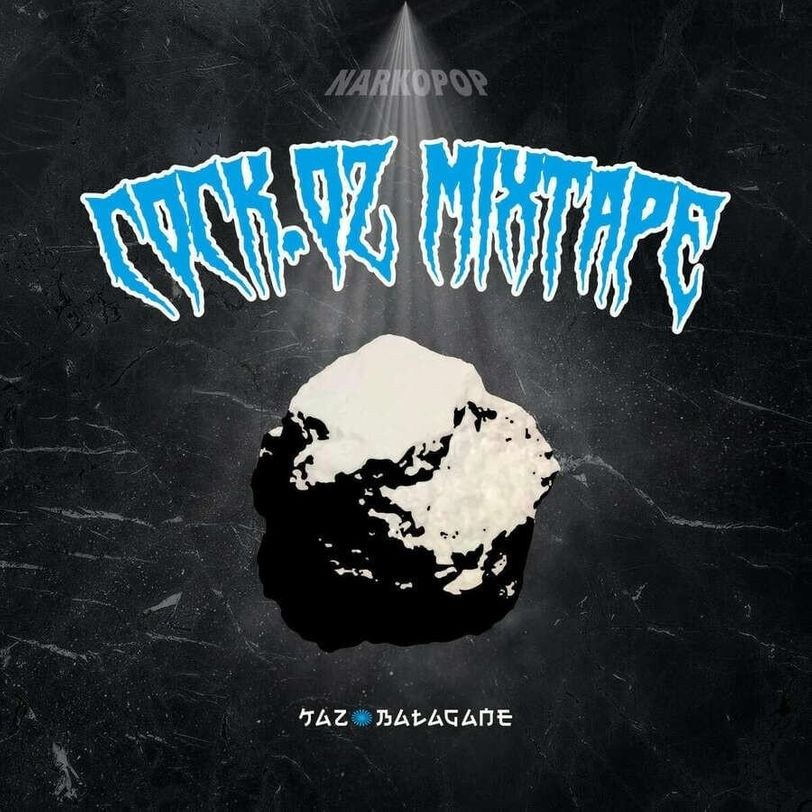
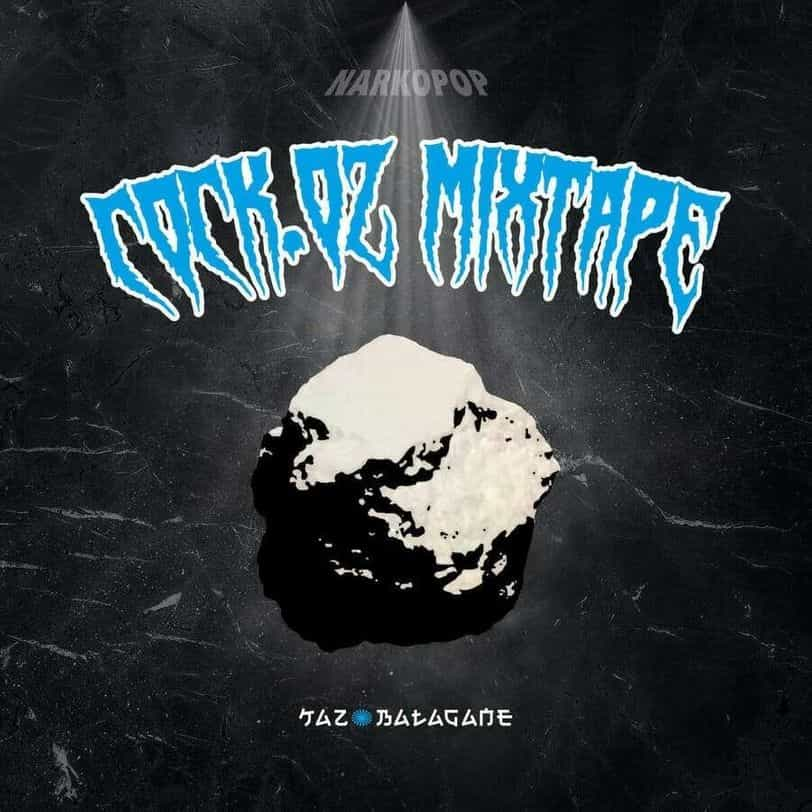
Update zdjęć, kompresja / zmiana na jpg z niepotrzebnego png

diff --git a/index.html b/index.html
@@ -33,7 +33,7 @@
                 <article>
                     <div>
                         <h3>NOWY ALBUM</h3>
-                        <img src="nic.png" alt="Okładka albumu NIC">
+                        <img src="nic.jpg" alt="Okładka albumu NIC">
                     </div>
                     <div>
                         <h4>"NIC"</h4>
@@ -45,7 +45,7 @@
                 <article>
                     <div>
                         <h3>NOWY ALBUM</h3>
-                        <img src="zlepilog.png" alt="Okładka albumu Zabójstwo Liryczne Epilog">
+                        <img src="zlepilog.jpg" alt="Okładka albumu Zabójstwo Liryczne Epilog">
                     </div>
                     <div>
                         <h4>"Zabójstwo Liryczne Epilog"</h4>
@@ -81,7 +81,7 @@
                 <article>
                     <div>
                         <h3>NOWY ALBUM</h3>
-                        <img src="wsamopoludnie.png" alt="Okładka albumu W samo południe">
+                        <img src="wsamopoludnie.jpg" alt="Okładka albumu W samo południe">
                     </div>
                     <div>
                         <h4>"W samo południe"</h4>
@@ -93,7 +93,7 @@
                 <article>
                     <div>
                         <h3>NOWY ALBUM</h3>
-                        <img src="mlodymatczak.png" alt="Okładka albumu Młody Matczak">
+                        <img src="mlodymatczak.jpg" alt="Okładka albumu Młody Matczak">
                     </div>
                     <div>
                         <h4>"Młody Matczak"</h4>
@@ -121,7 +121,7 @@
                     <article>
                         <h2>ALBUM MIESIĄCA</h2>
                         <h2 class="miesiac">PAŹDZIERNIK</h2>
-                        <img src="mlodymatczak.png" alt="Okładka albumu Młody Matczak">
+                        <img src="mlodymatczak.jpg" alt="Okładka albumu Młody Matczak">
                         <h4>"Młody Matczak"</h4>
                         <h5>MATA</h5>
                     </article>
